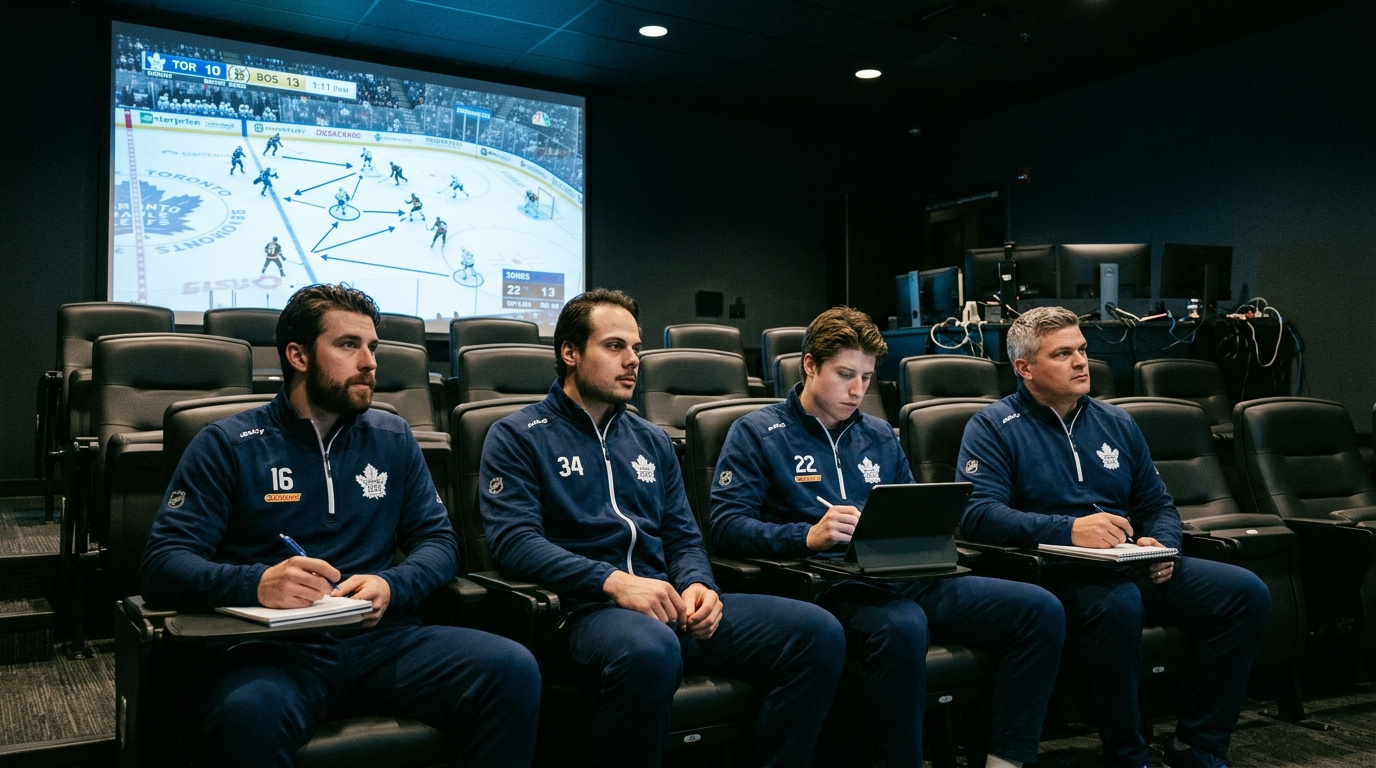
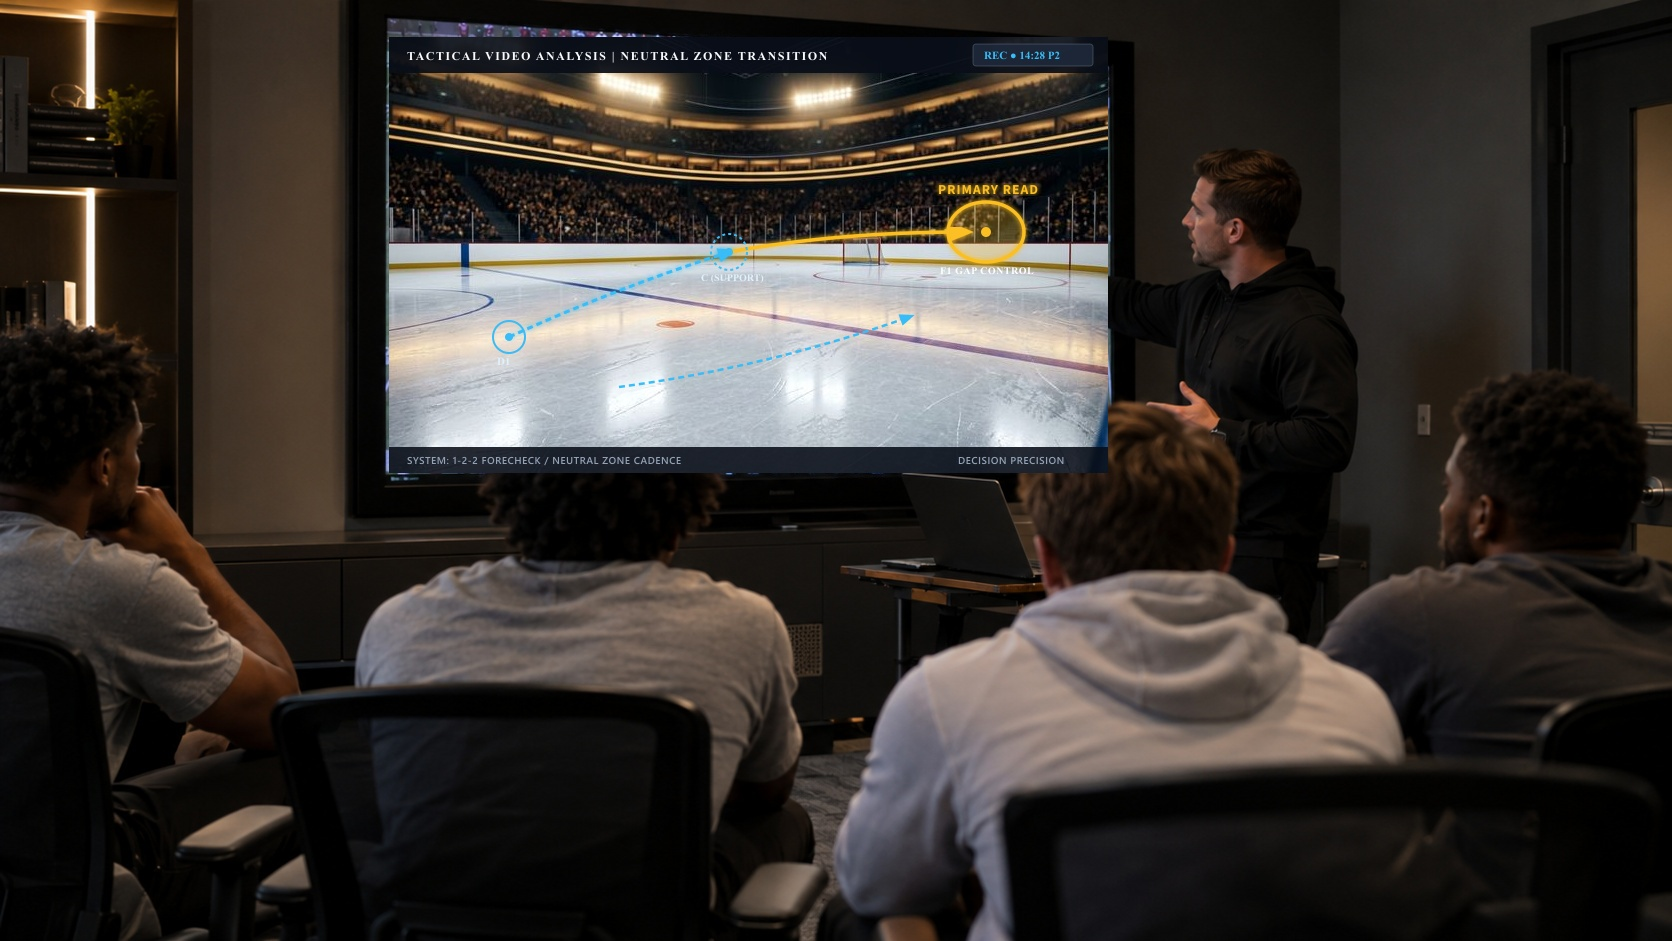
feat(hockey): update video analytics room and tactical strategy board visuals with authentic documentary photography

diff --git a/src/app/foundations/hockey/page.tsx b/src/app/foundations/hockey/page.tsx
@@ -187,11 +187,11 @@ const onIceActionStockCards = [
     description: "Breath regulation and shift neutrality that ensure errors do not carry over to the next possession.",
   },
   {
-    title: "Tactical Execution on the Fly",
-    eyebrow: "PLAYBOOK PRECISION",
-    image: "/foundations/hockey/hockey-tactical-playbook.png",
+    title: "Athlete Focus & Presence",
+    eyebrow: "ON-ICE IDENTITY",
+    image: "/foundations/pathways/hockey/hockey-player-jersey10-portrait.png",
     objectPosition: "center 20%",
-    description: "Translating team systems into instant muscle memory and synchronized five-man execution.",
+    description: "Maintaining emotional poise and complete physical readiness under intense arena lights.",
   },
 ];
 
